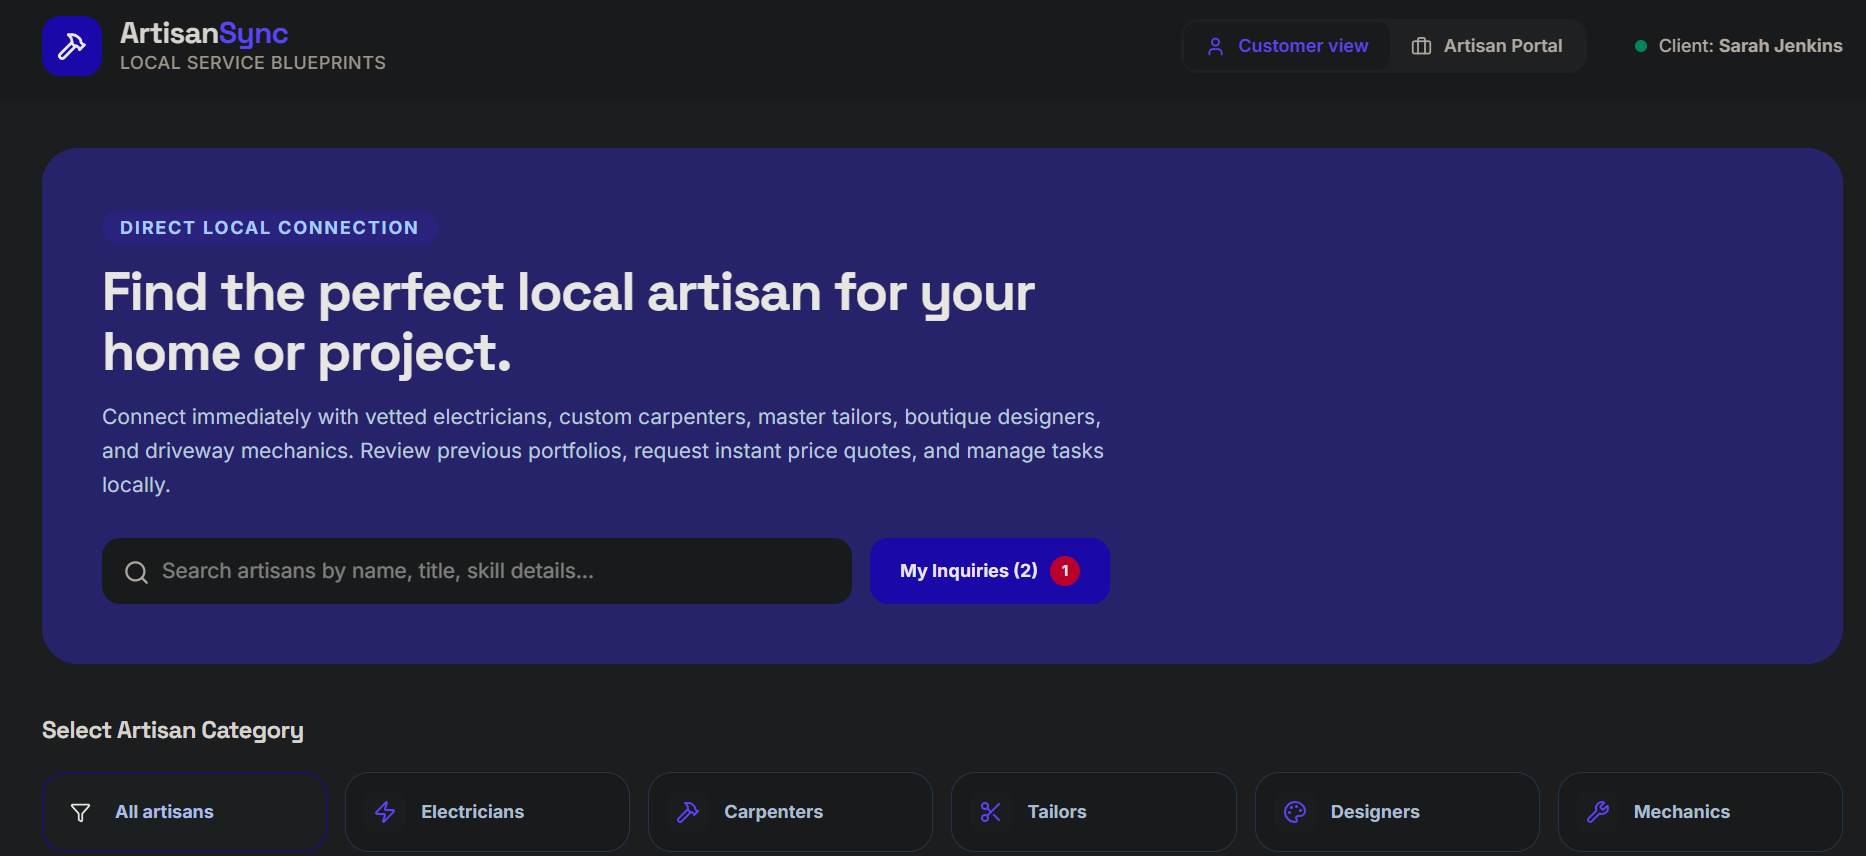
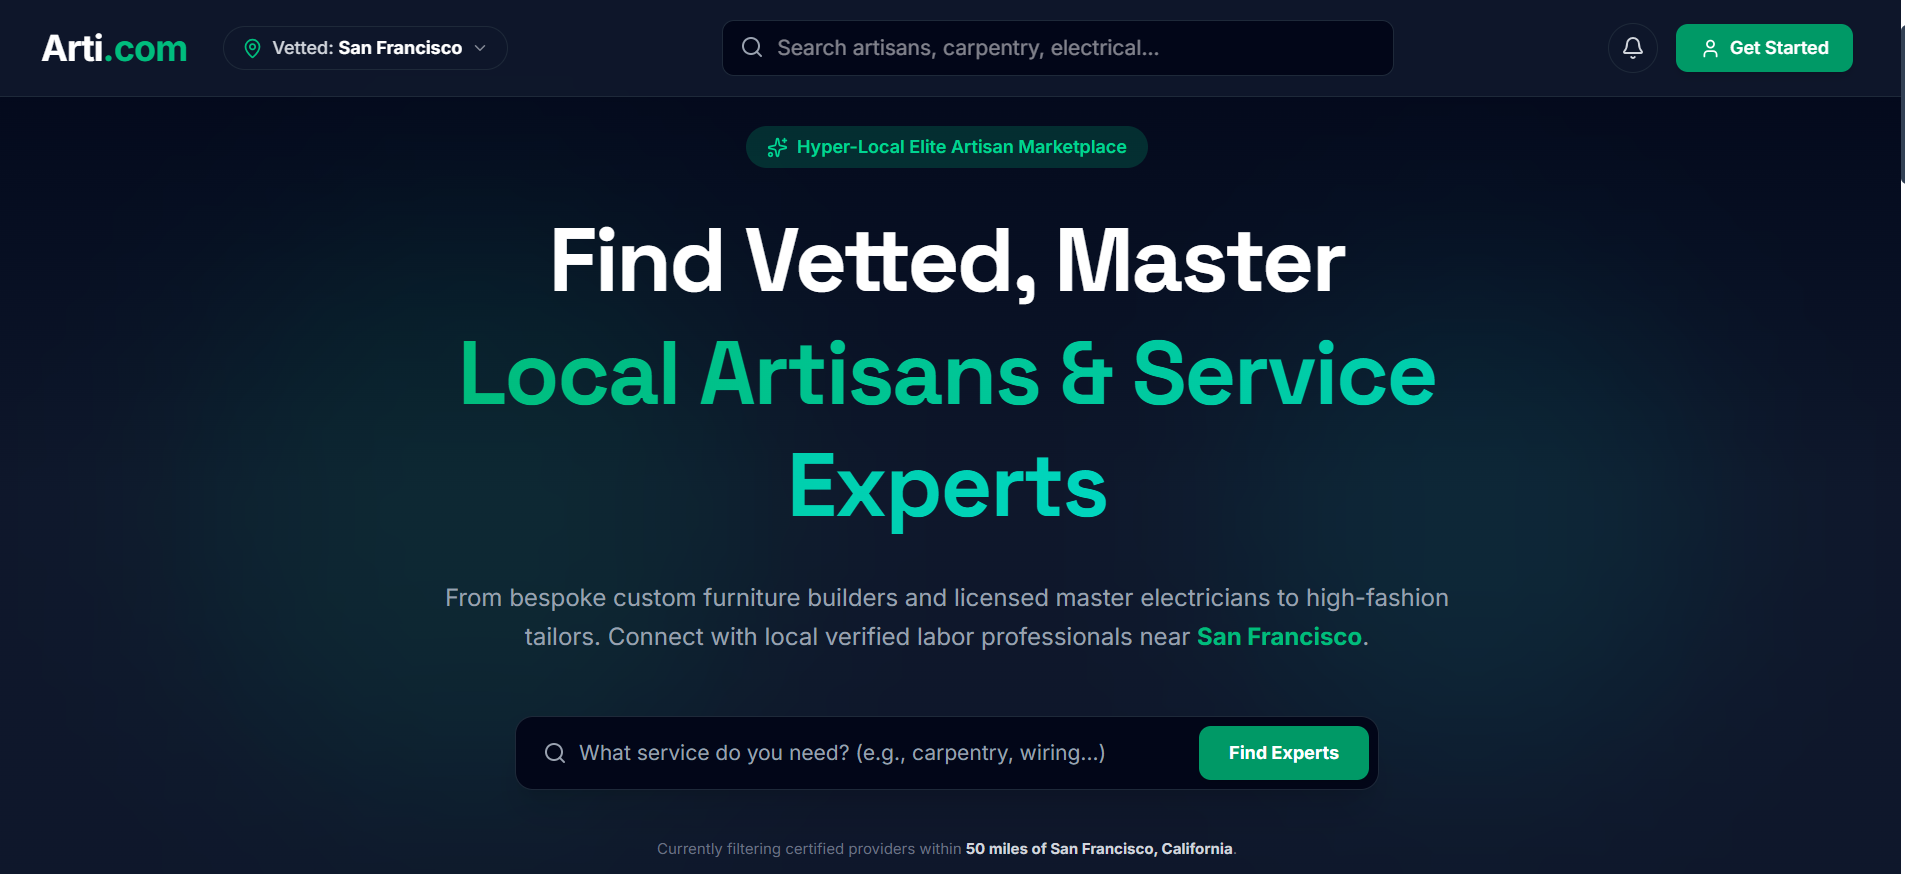
Updated Project Portfolio

diff --git a/src/data.ts b/src/data.ts
@@ -89,19 +89,19 @@ export const INITIAL_SKILLS: Skill[] = [
 
 
 export const PROJECTS: Project[] = [
-  {
-    id: "job-tracker",
-    title: "Job Application Tracker",
-    description: "This is is a polished sleek, local first app built to rescue people from spreadsheet hell during a job hunt.  Instead of jumping between messy bookmarks, notes apps, and Excel files, it gives you a clean command center to track your entire hiring lifecycle from initial submission to final offer.It saves everything directly to the browser via localStorage. That means the app is instantly ready to use without requiring a complex database setup, user accounts, or backend servers.",
-category: ["React", "TypeScript", "Tailwind CSS"],
-   tech: ["React", "TypeScript", "Javascript", "Vite", "Tailwind CSS", "Local Storage API", "Lucide Icons"],
-    image: "/Project-images/JAJ_img.png",
-    featured: true,
-    typescriptReady: true,
-    liveUrl: "https://job-application-journal.vercel.app/",
-    githubUrl: "https://github.com/Chukwudi-Gideon/Job-Application-Journal"
+    {
+    id: "artisan-marketplace",
+    title: "Artisan Marketplace",
+    description: "A regional discovery service platform matching retail consumers with local service providers and craft profiles. The app combines a customer-facing directory, artisan portals, quote requests, and lightweight local persistence so it can be explored without a full production backend.",
+  category: ["TypeScript", "Tailwind CSS", "Vite", "React"],
+    tech: ["TypeScript","Vite" ,"React Router","Firebase Authentication" ,"Firebase"," Authentication, Firestore","and Storage","Tailwind CSS","Lucide React"," React Hook Form"],
+    image: "/Project-images/Local-Artisan-Marketplace.png",
+    featured: false,
+    typescriptReady: false,
+      liveUrl: "https://arti-technologies-inc.vercel.app/",
+     githubUrl: "https://github.com/Chukwudi-Gideon/Arti-Technologies-inc"
   },
-  {
+    {
     id: "client-dashboard",
     title: "Freelance Client Management",
     description: "This Client Managment is a local first productivity and financial automation app, built to help freelancers and agencies streamline client management, track projects and automate invoicing. Ultimately, its purpose is to provide independent professionals with a fast, secure, and entirely free workspace that simplifies day to day business operations while keeping absolute data ownership in the hands of the user.", 
@@ -114,18 +114,18 @@ category: ["React", "TypeScript", "Tailwind CSS"],
      githubUrl: "https://github.com/Chukwudi-Gideon/FC-Management-Dashboard"
   },
   {
-    id: "artisan-marketplace",
-    title: "Local Artisan Marketplace",
-    description: "A regional discovery service platform matching retail consumers with local service providers and craft profiles.",
-    detailedDescription: "A community-focused marketplace workspace allowing users to index and source neighborhood contractors. Equipped with a dynamic keyword search index, structured artisan media galleries, and a multi-input portal for processing and logging custom quote requests.",
-    category: ["JavaScript", "CSS"],
-    tech: ["Vanilla ES6 JavaScript", "Tailwind Layout Grid", "Semantic HTML5 Markup", "Forms Validation API"],
-    image: "/Project-images/Local-Artisan-Marketplace.png",
-    featured: false,
-    typescriptReady: false,
-      liveUrl: "https://local-artisan-marketplace-theta.vercel.app/",
-     githubUrl: "https://github.com/Chukwudi-Gideon/Local-Artisan-Marketplace"
-  }
-];
+    id: "job-tracker",
+    title: "Job Application Tracker",
+    description: "This is is a polished sleek, local first app built to rescue people from spreadsheet hell during a job hunt.  Instead of jumping between messy bookmarks, notes apps, and Excel files, it gives you a clean command center to track your entire hiring lifecycle from initial submission to final offer.It saves everything directly to the browser via localStorage. That means the app is instantly ready to use without requiring a complex database setup, user accounts, or backend servers.",
+category: ["React", "TypeScript", "Tailwind CSS"],
+   tech: ["React", "TypeScript", "Javascript", "Vite", "Tailwind CSS", "Local Storage API", "Lucide Icons"],
+    image: "/Project-images/JAJ_img.png",
+    featured: true,
+    typescriptReady: true,
+    liveUrl: "https://job-application-journal.vercel.app/",
+    githubUrl: "https://github.com/Chukwudi-Gideon/Job-Application-Journal"
+  },
 
+
+];
 
